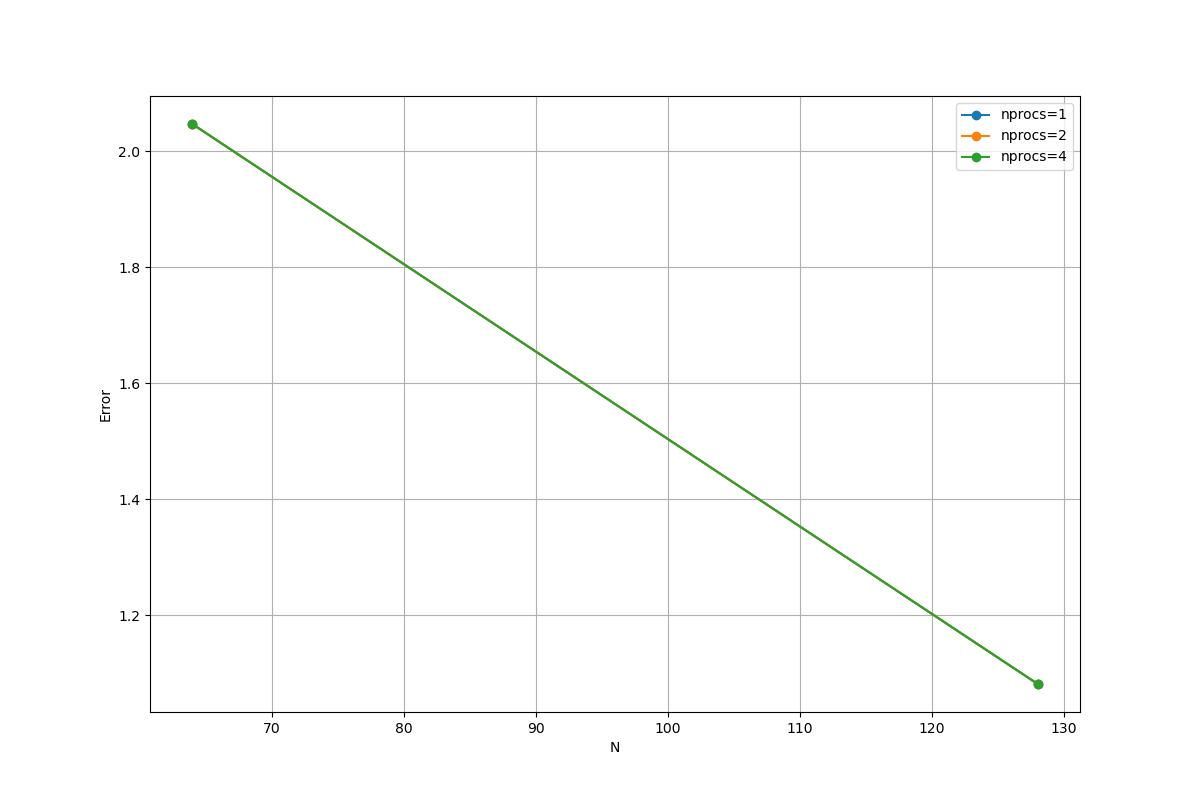
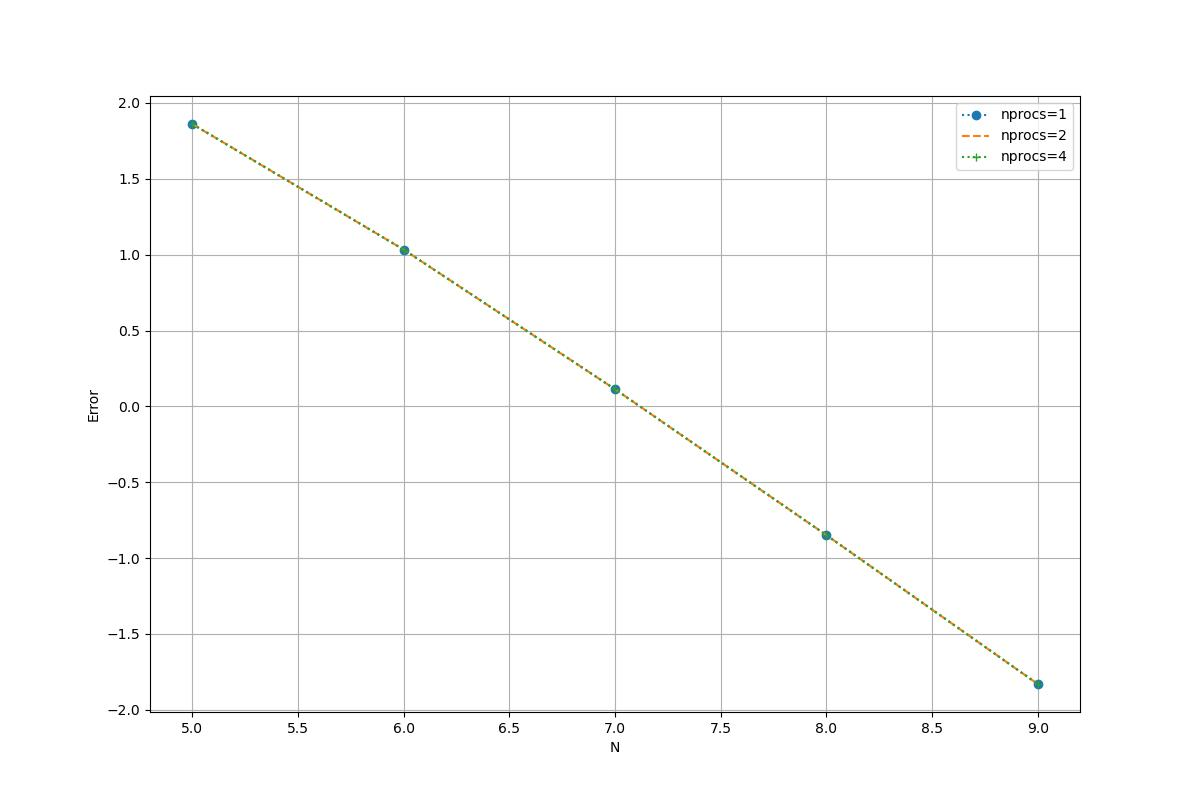
plot

diff --git a/graph/plot_mpi.py b/graph/plot_mpi.py
@@ -27,6 +27,7 @@ plt.grid()
 plt.savefig("graph/img/performances_t=5e4.jpg")
 plt.show()
 
+
 # Plot errors
 
 error_data1 = np.loadtxt("error_1.txt")
@@ -38,12 +39,15 @@ error2 = error_data2[:,1]
 error4 = error_data4[:,1]
 
 plt.figure(figsize=(12,8))
-plt.plot(sizes, error1, marker='o', label=f'nprocs=1')
-plt.plot(sizes, error2, marker='o', label=f'nprocs=2')
-plt.plot(sizes, error4, marker='o', label=f'nprocs=4')
+plt.plot(np.log2(sizes), np.log2(error1), ':o', label=f'nprocs=1')
+plt.plot(np.log2(sizes), np.log2(error2), '--', label=f'nprocs=2')
+plt.plot(np.log2(sizes), np.log2(error4), ':+', label=f'nprocs=4')
 
 plt.xlabel("N")
 plt.ylabel("Error")
+# plt.ylim(0, np.max(np.log2([error1, error2, error4])) * 1.1)
+# plt.xlim(sizes[0] - 0.5, sizes[-1] + 0.5)
+
 plt.legend()
 plt.grid()
 plt.savefig("graph/img/errors_t=5e4.jpg")

diff --git a/include/param.h b/include/param.h
@@ -52,8 +52,8 @@ struct Param{
     void update(int size){
         dx = (xmax-xmin)/size;
         dy = (ymax-ymin)/size;
-        dt = 1./(4 * kappa * (1/pow(dx,2) + 1/pow(dy,2)));  // dt is equal to half the CFL condition
-        Nt = (int)(t_final/dt);                             // number of iterations for finite differences
+        dt = 0.5 * 1./(4 * kappa * (1/pow(dx,2) + 1/pow(dy,2)));  // dt is equal to half the CFL condition
+        Nt = static_cast<int>(t_final/dt);                             // number of iterations for finite differences
     }
 };
 
